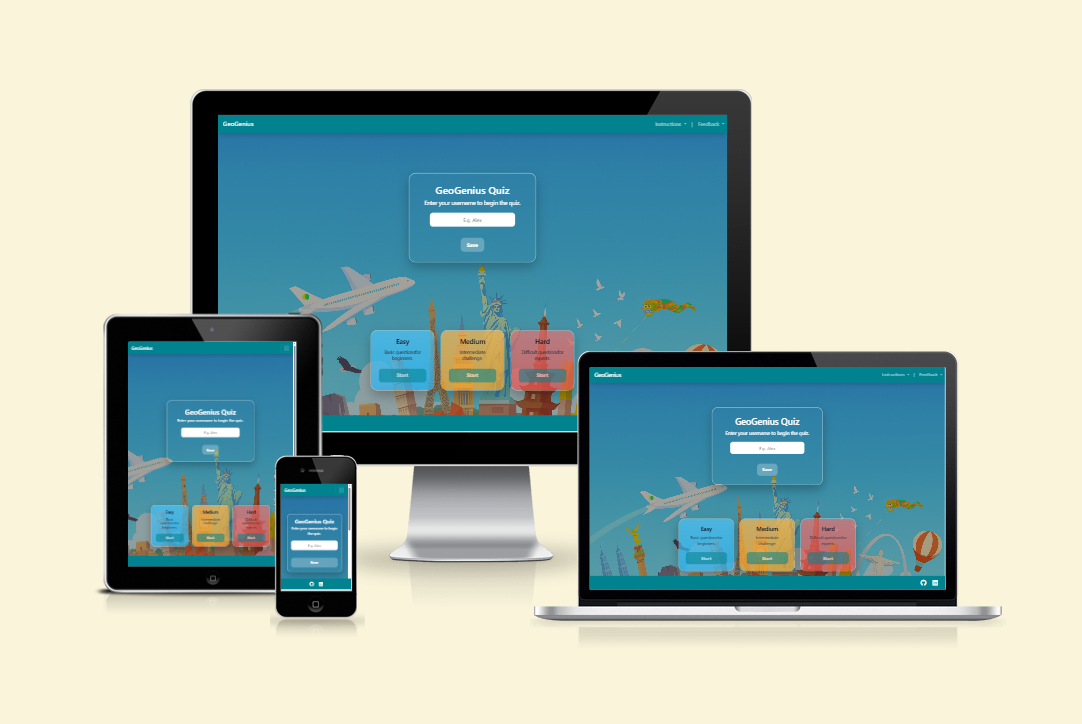
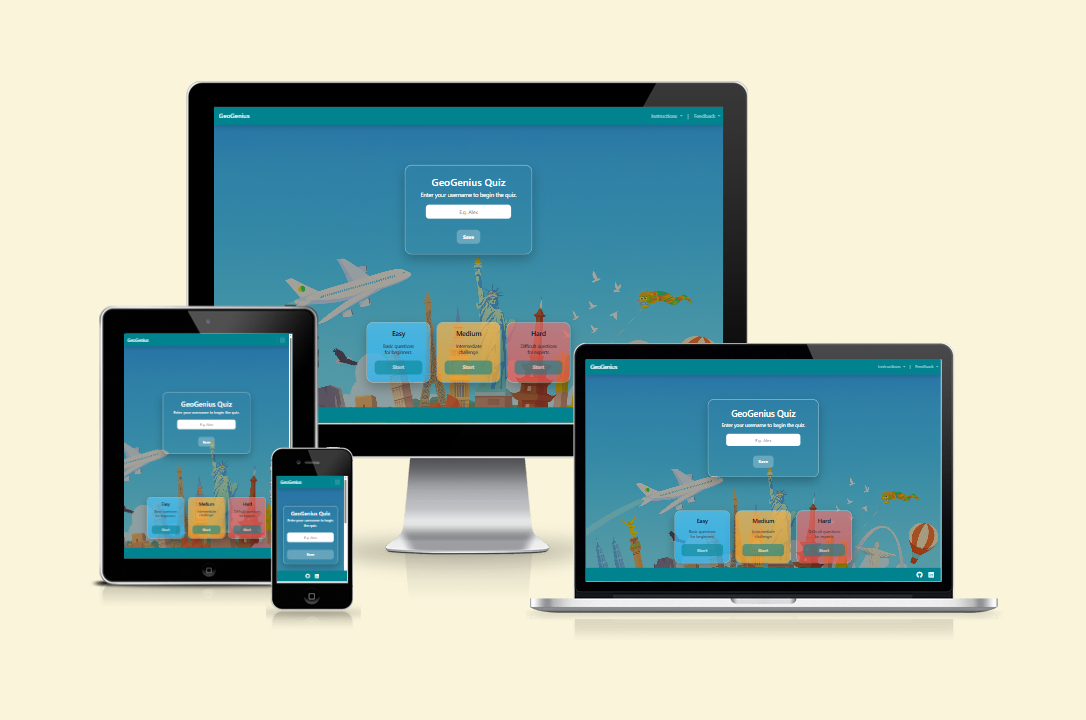
Update responsiveness screenshot for README

Changed region(s): [[0.0915, 0.0917, 0.9455, 0.8861]]

diff --git a/index.html b/index.html
@@ -108,19 +108,19 @@
   <div class="difficulty-container">
     <div class="glass-card easy">
       <h3>Easy</h3>
-      <p><span class="line">Basic questions</span><span class="line">for beginners.</span></p>
+      <p><span class="line">Basic questions</span><span class="line">for beginners</span></p>
       <button class="btn" type="button" data-level="easy">Start</button>
     </div>
 
     <div class="glass-card medium">
       <h3>Medium</h3>
-      <p><span class="line">Intermediate</span><span class="line">challenge.</span></p>
+      <p><span class="line">Intermediate</span><span class="line">challenge</span></p>
        <button class="btn" type="button" data-level="medium">Start</button>
     </div>
 
     <div class="glass-card hard">
       <h3>Hard</h3>
-      <p><span class="line">Difficult questions</span><span class="line">for experts.</span></p>
+      <p><span class="line">Difficult questions</span><span class="line">for experts</span></p>
       <button class="btn" type="button" data-level="hard">Start</button>
     </div>
   </div>
